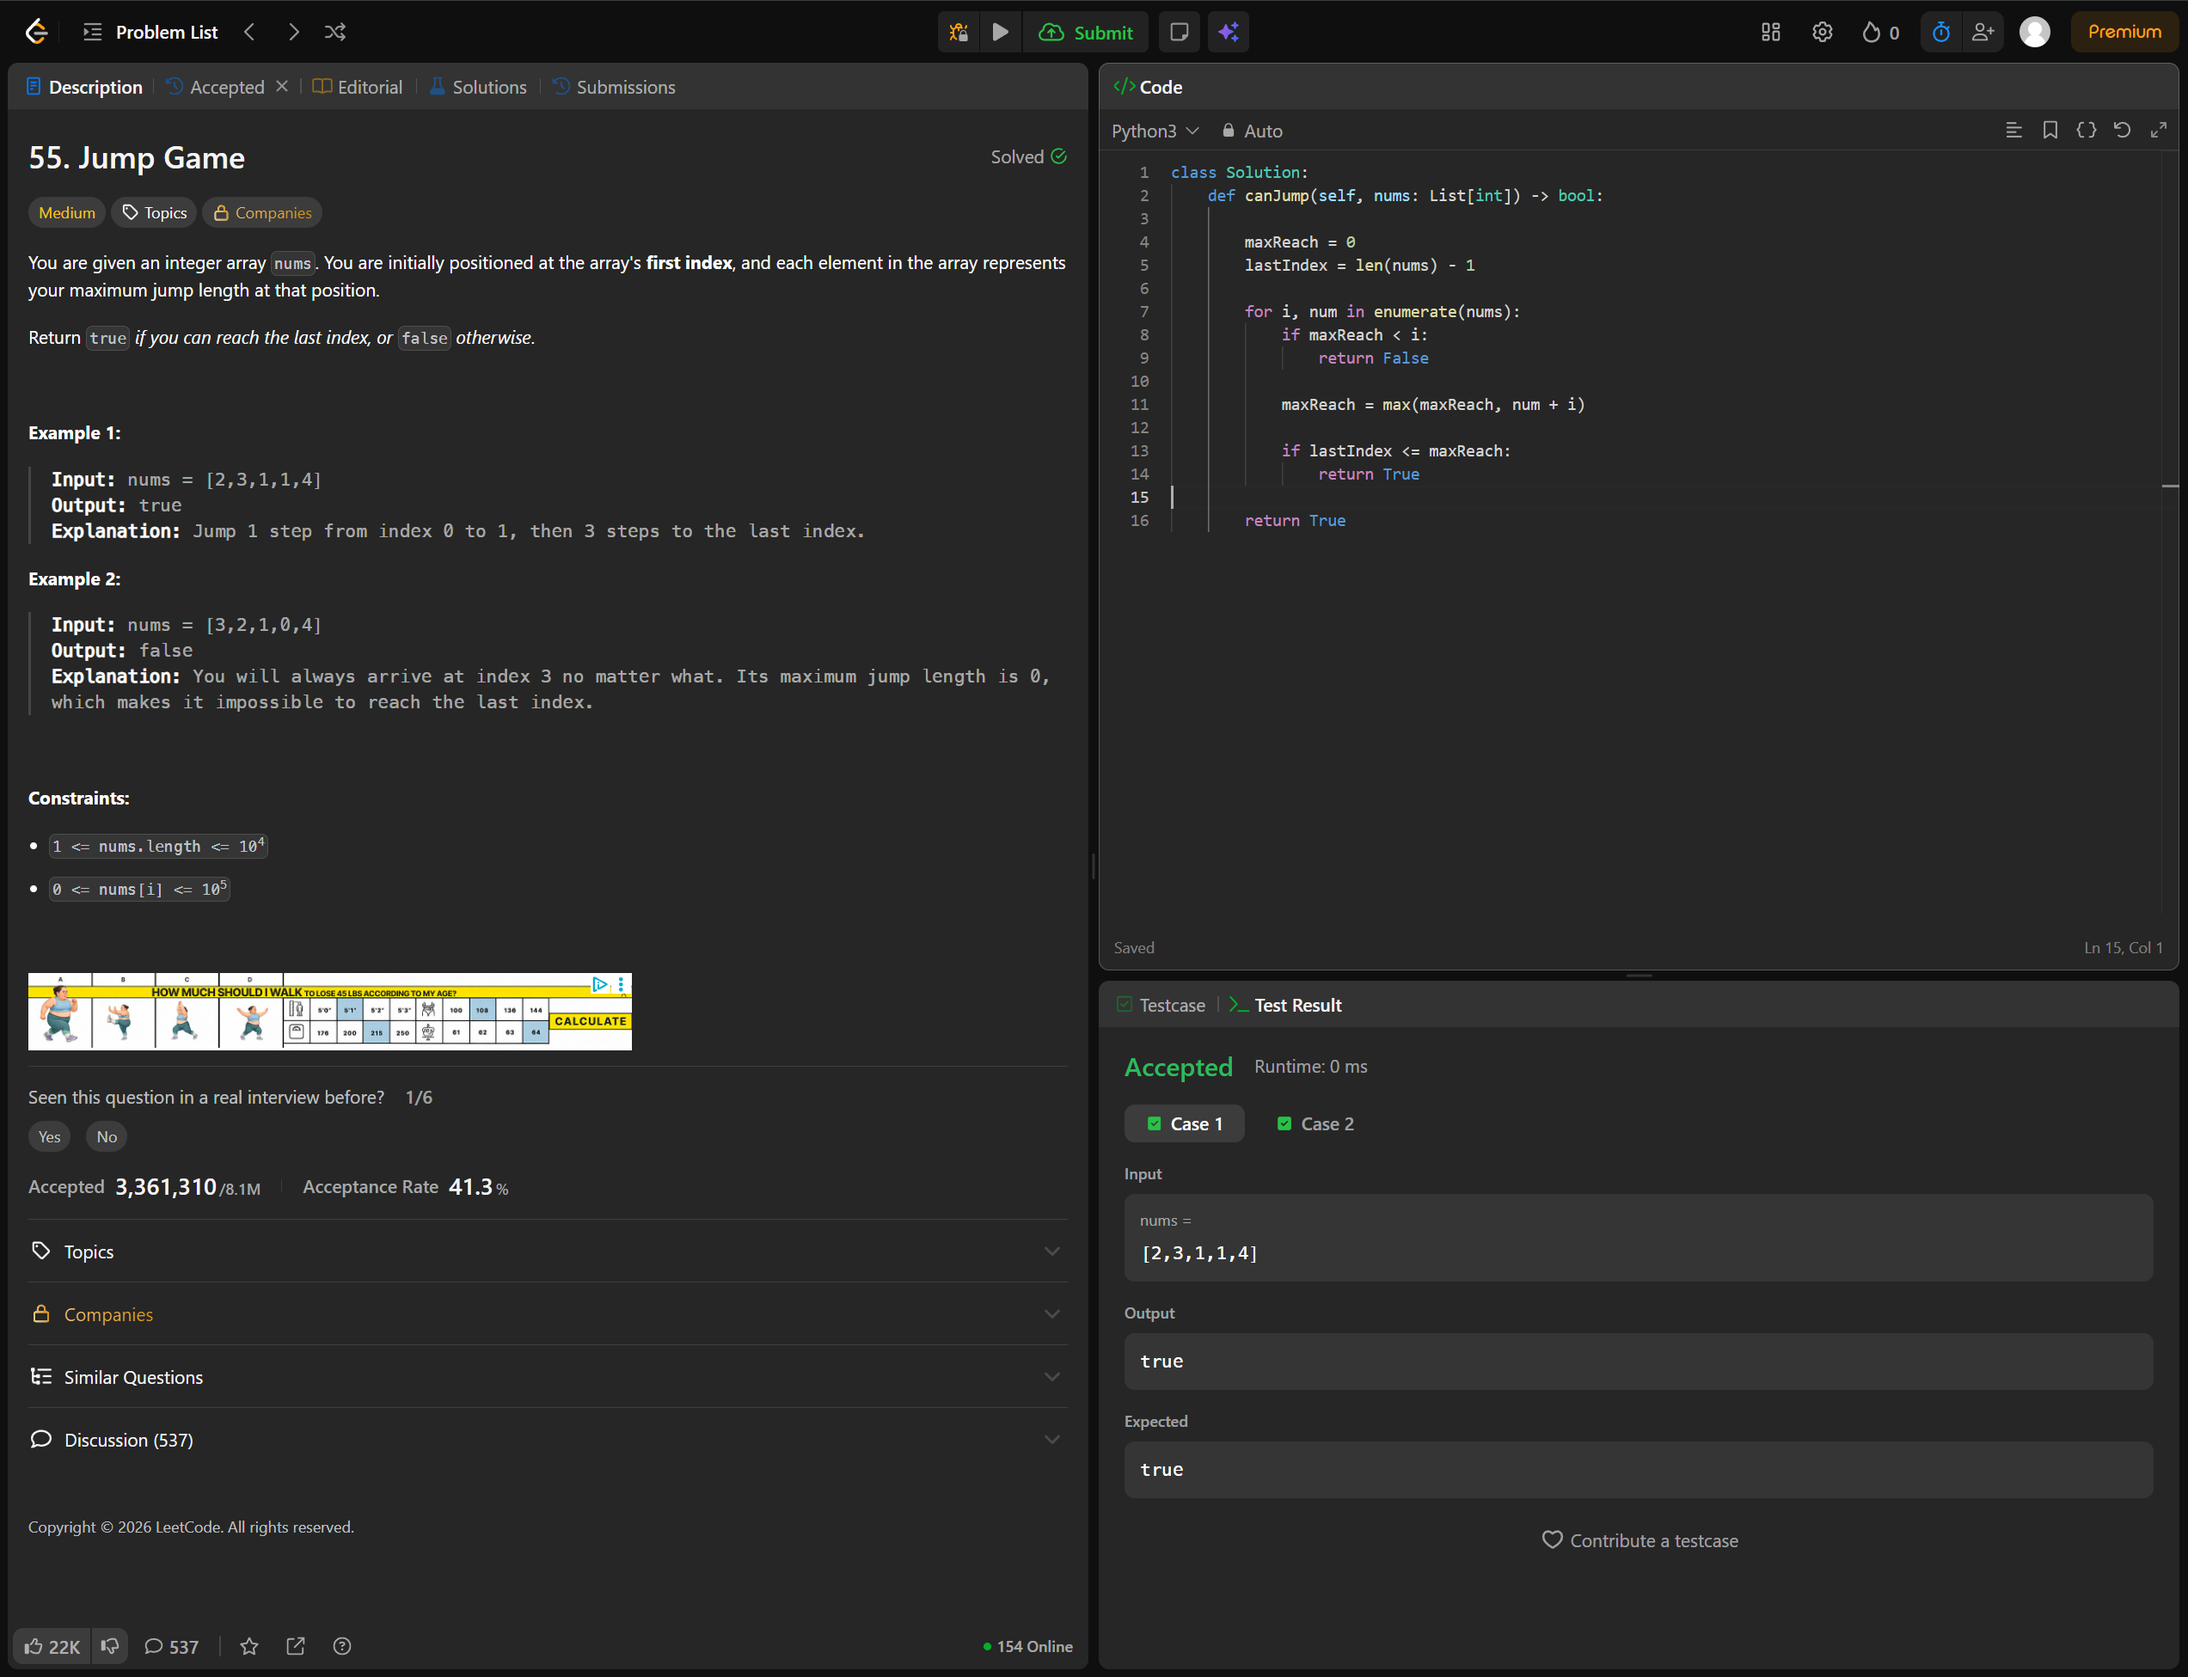
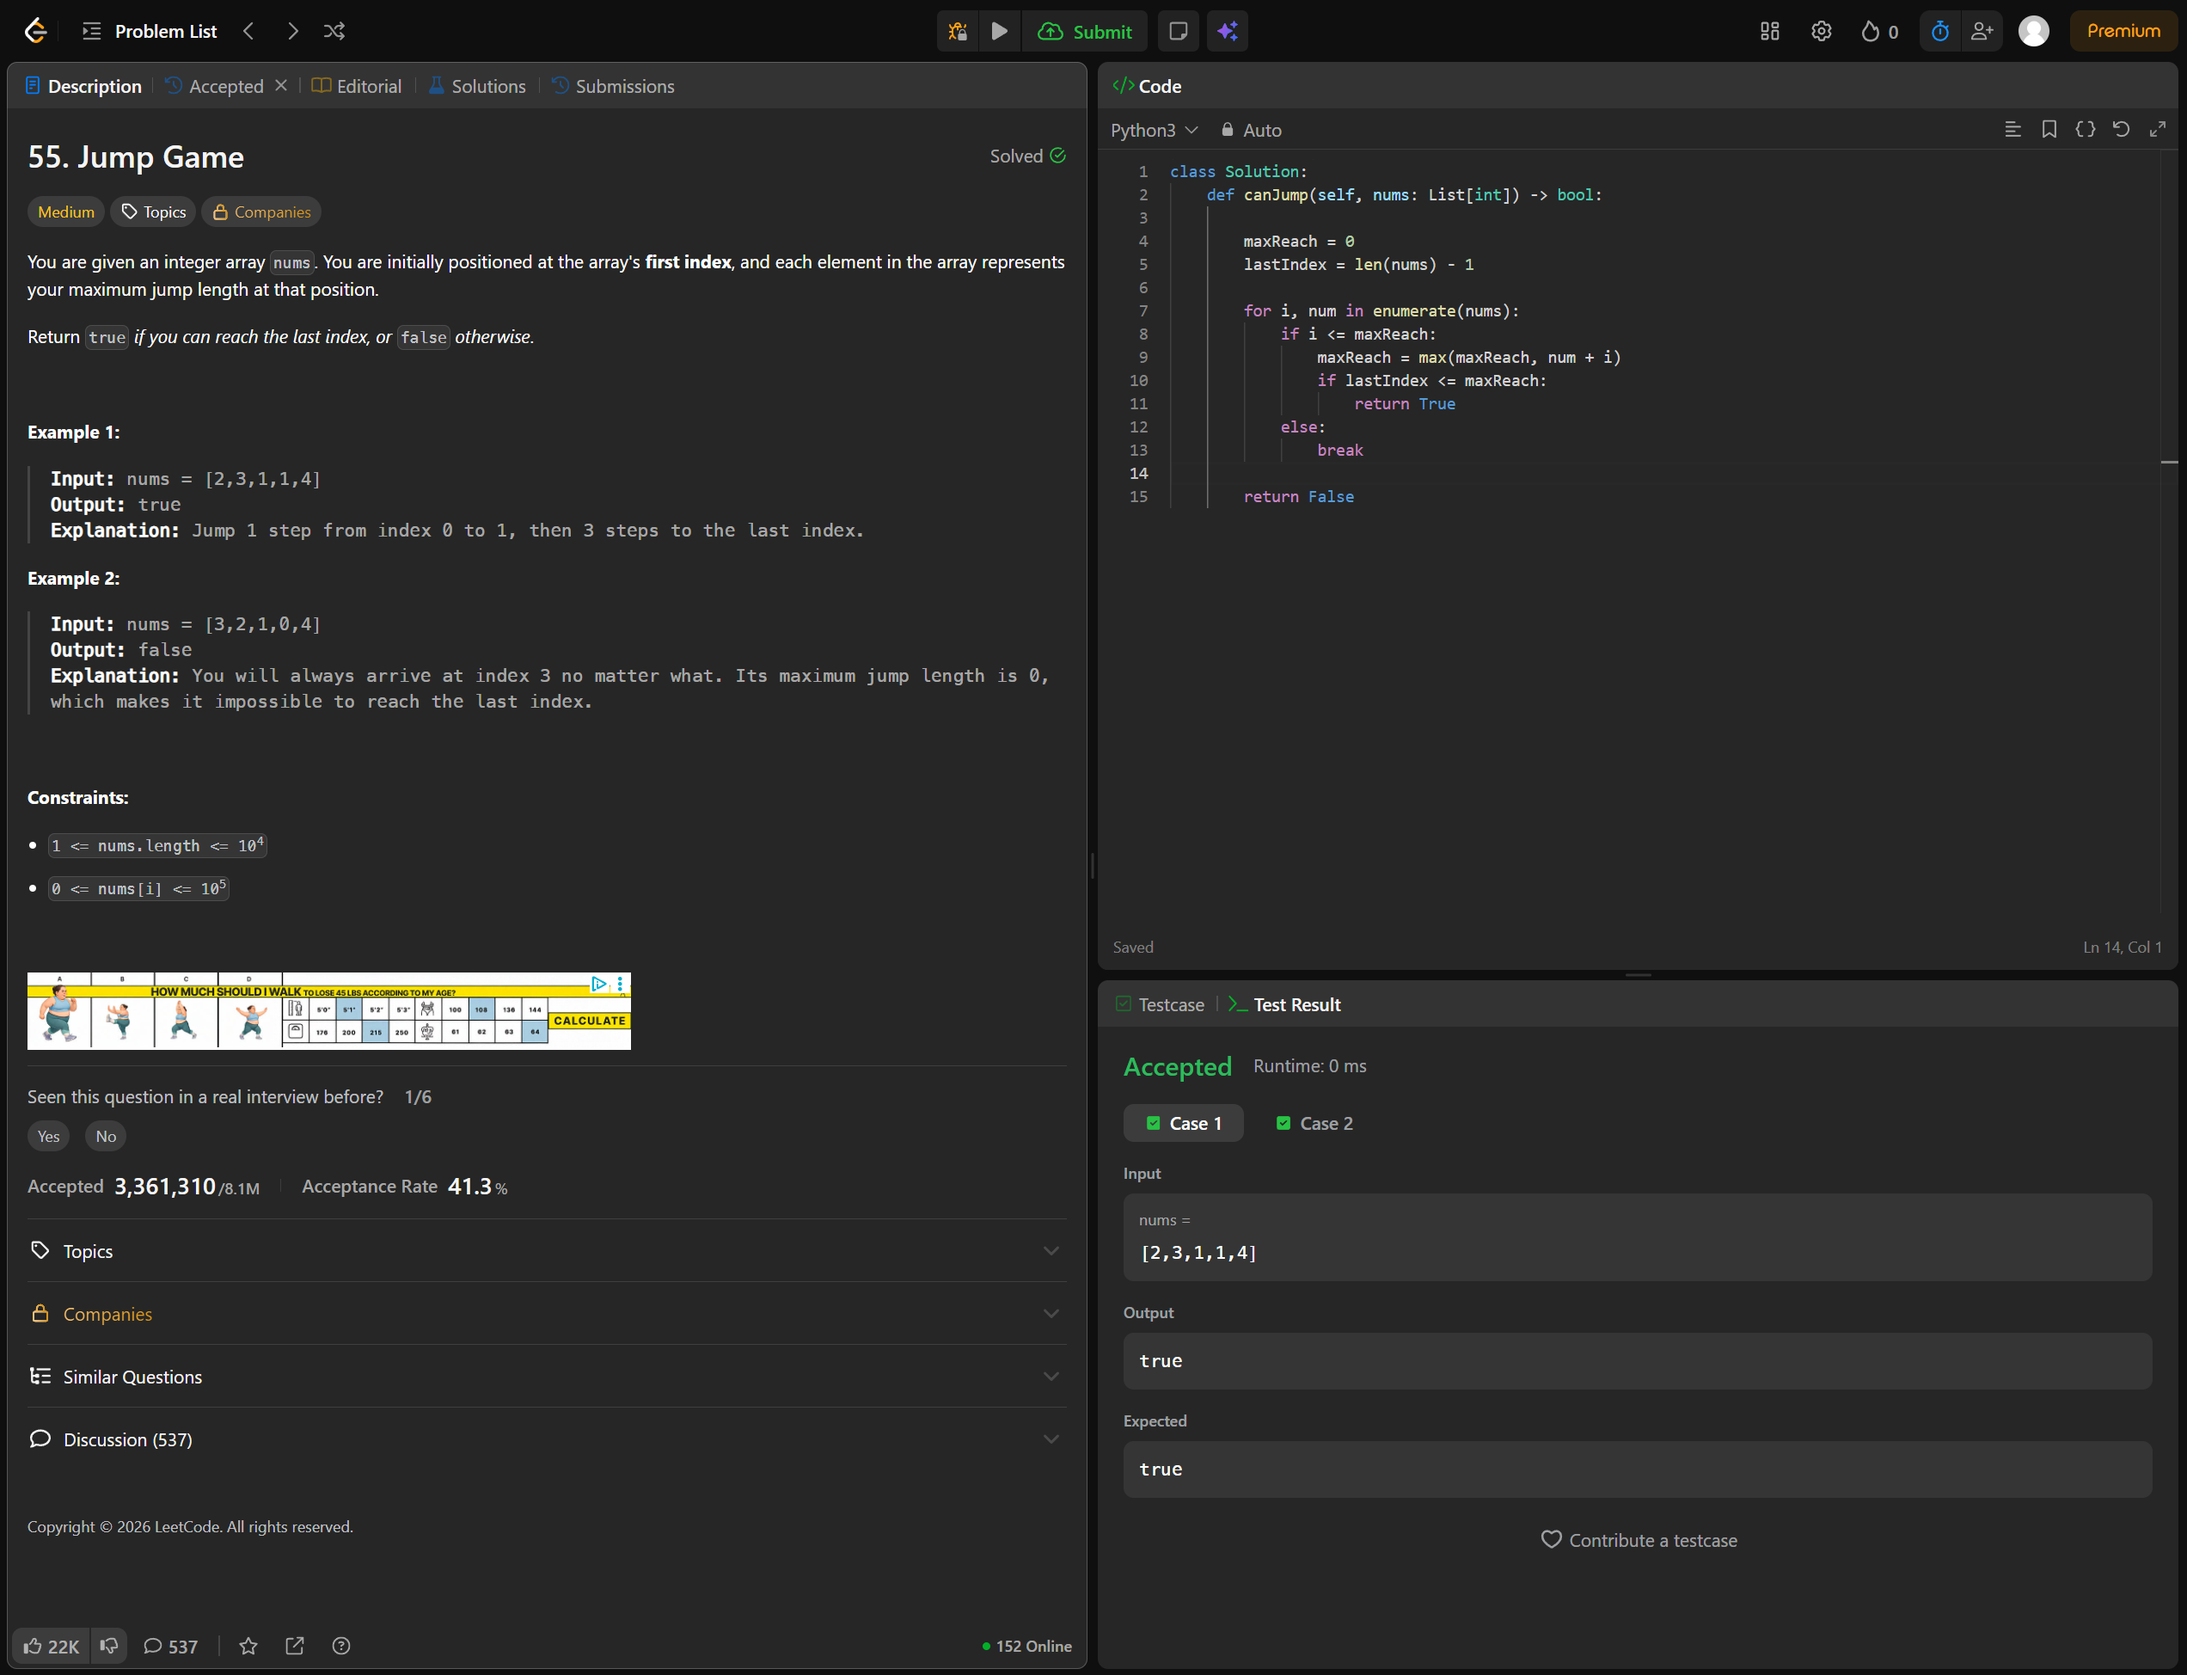
55. Jump Game

diff --git a/Medium/55. Jump Game/55. Jump Game.py b/Medium/55. Jump Game/55. Jump Game.py
@@ -7,12 +7,29 @@ class Solution:
         lastIndex = len(nums) - 1
 
         for i, num in enumerate(nums):
-            if maxReach < i:
-                return False
+            if i <= maxReach:
+                maxReach = max(maxReach, num + i)
+                if lastIndex <= maxReach:
+                    return True
+            else:
+                break
 
-            maxReach = max(maxReach, num + i)
+        return False
 
-            if lastIndex <= maxReach:
-                return True
 
-        return True
+# class Solution:
+#     def canJump(self, nums: List[int]) -> bool:
+
+#         maxReach = 0
+#         lastIndex = len(nums) - 1
+
+#         for i, num in enumerate(nums):
+#             if maxReach < i:
+#                 return False
+
+#             maxReach = max(maxReach, num + i)
+
+#             if lastIndex <= maxReach:
+#                 return True
+
+#         return True
